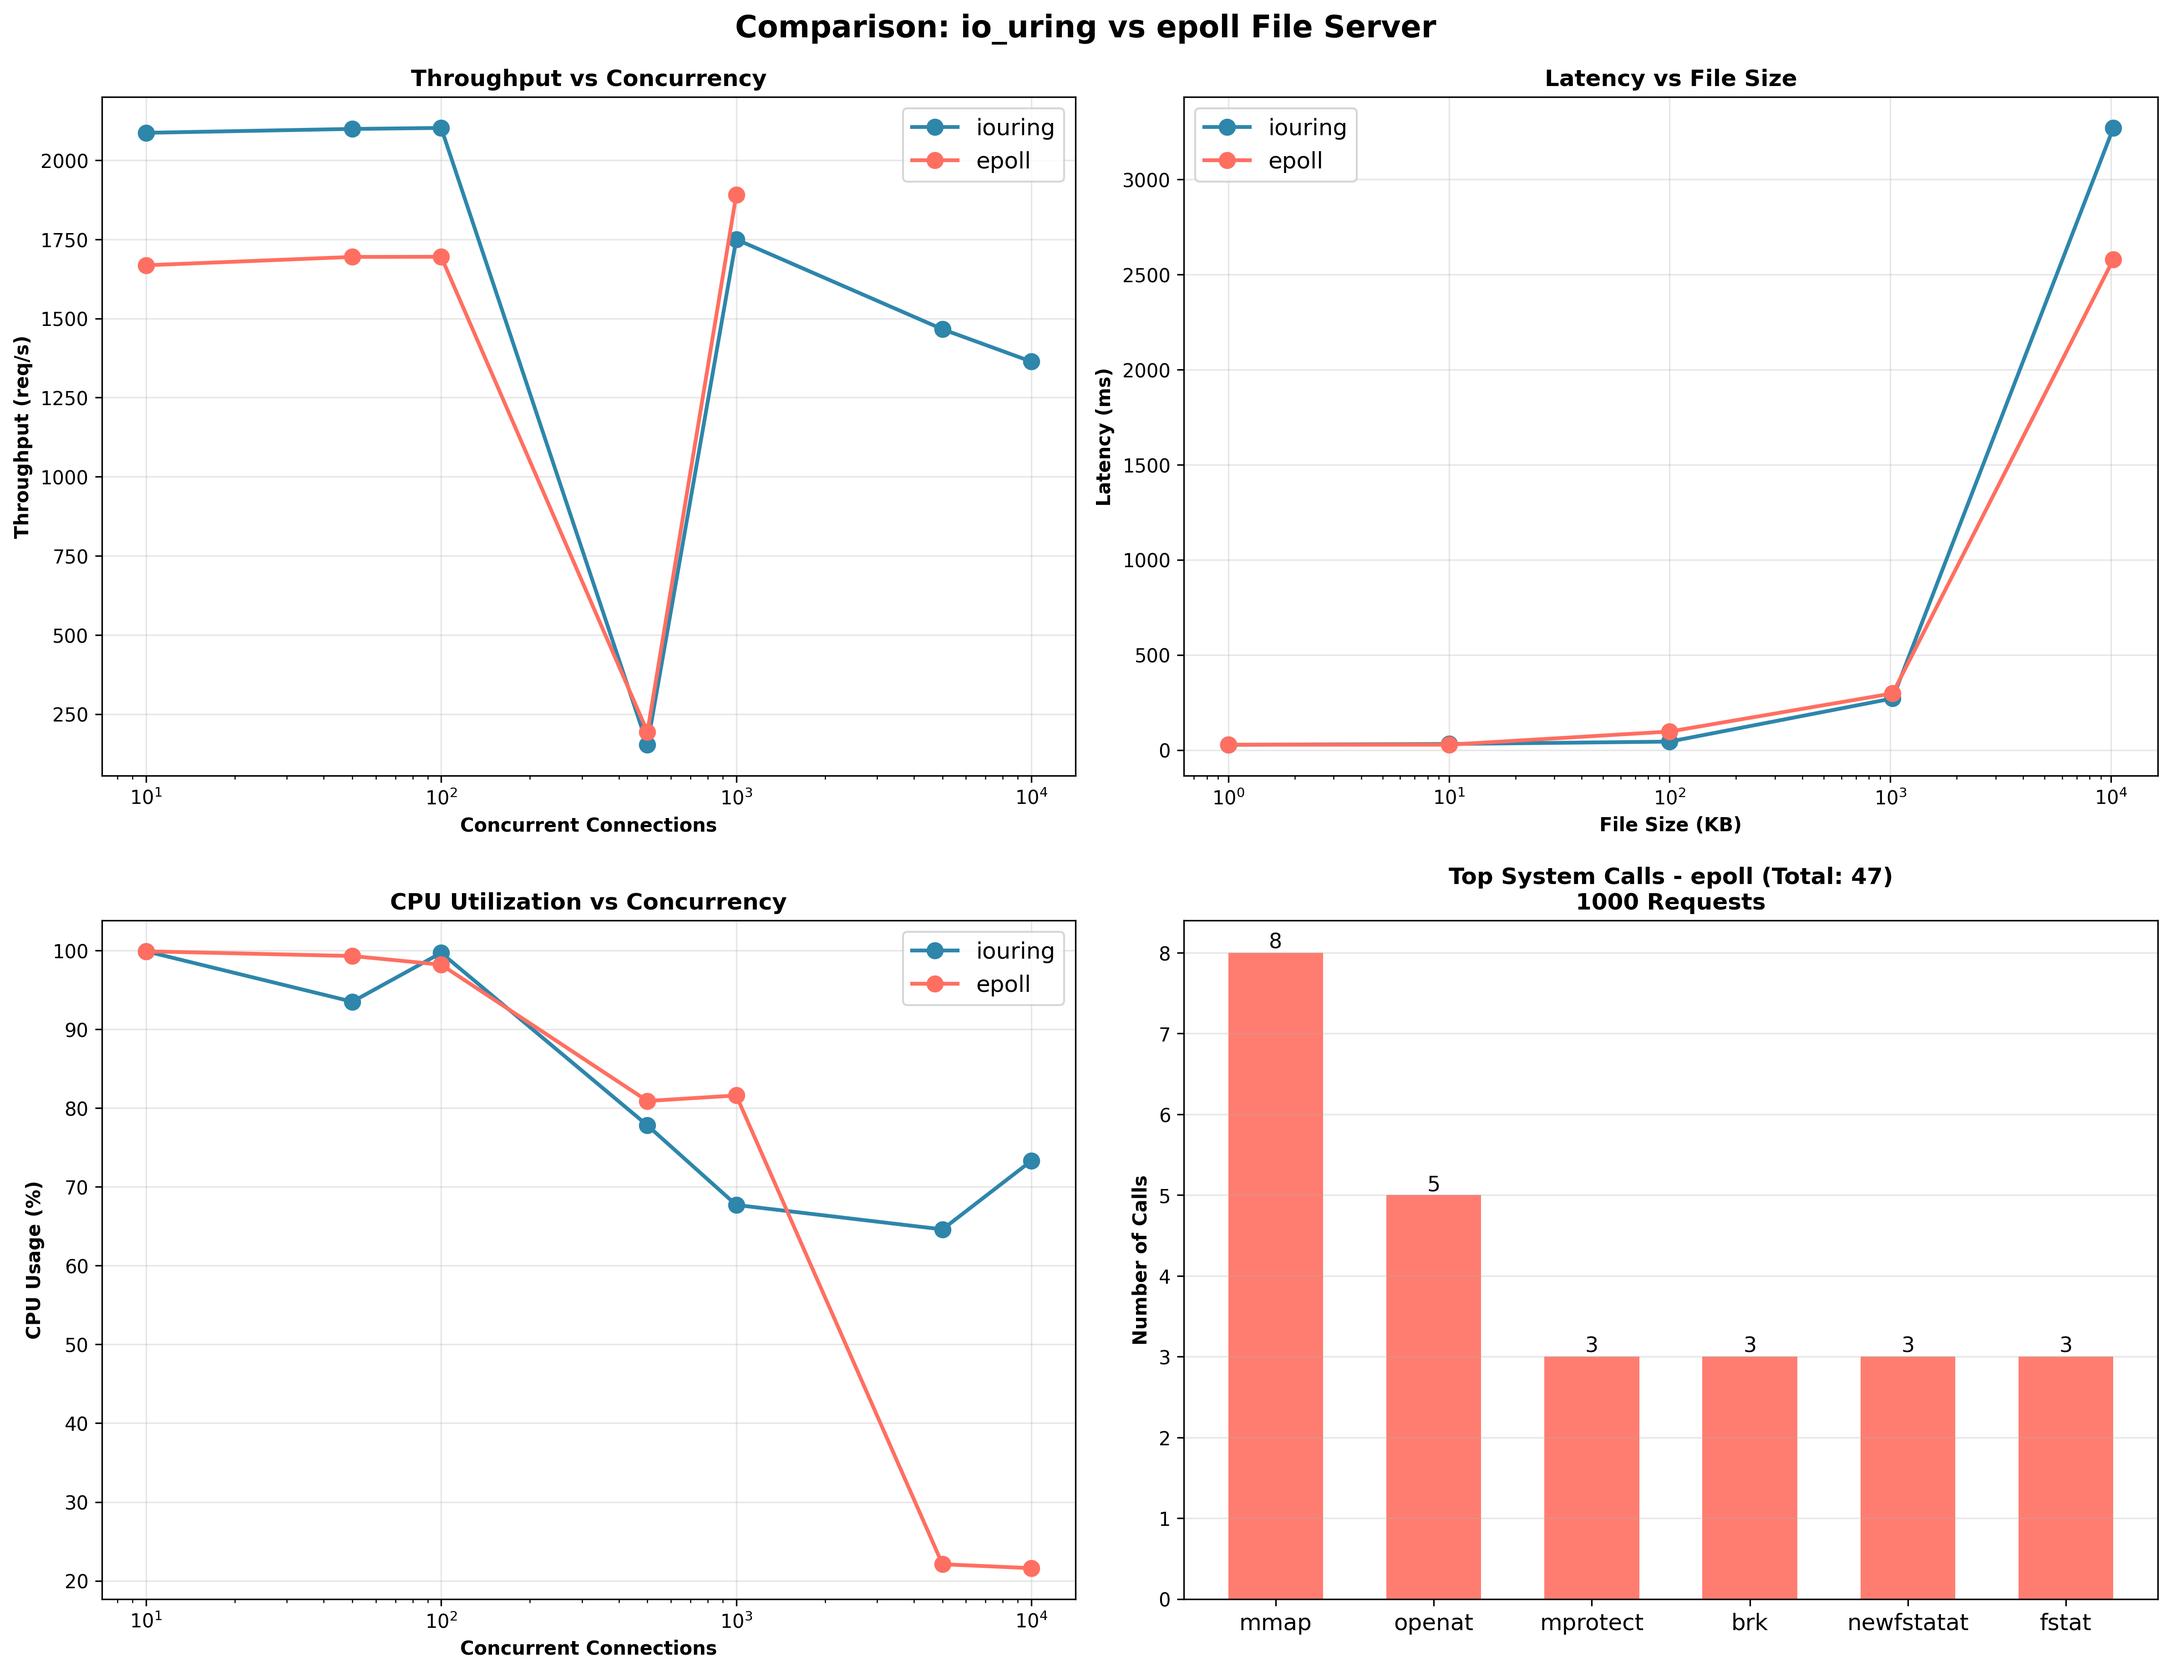
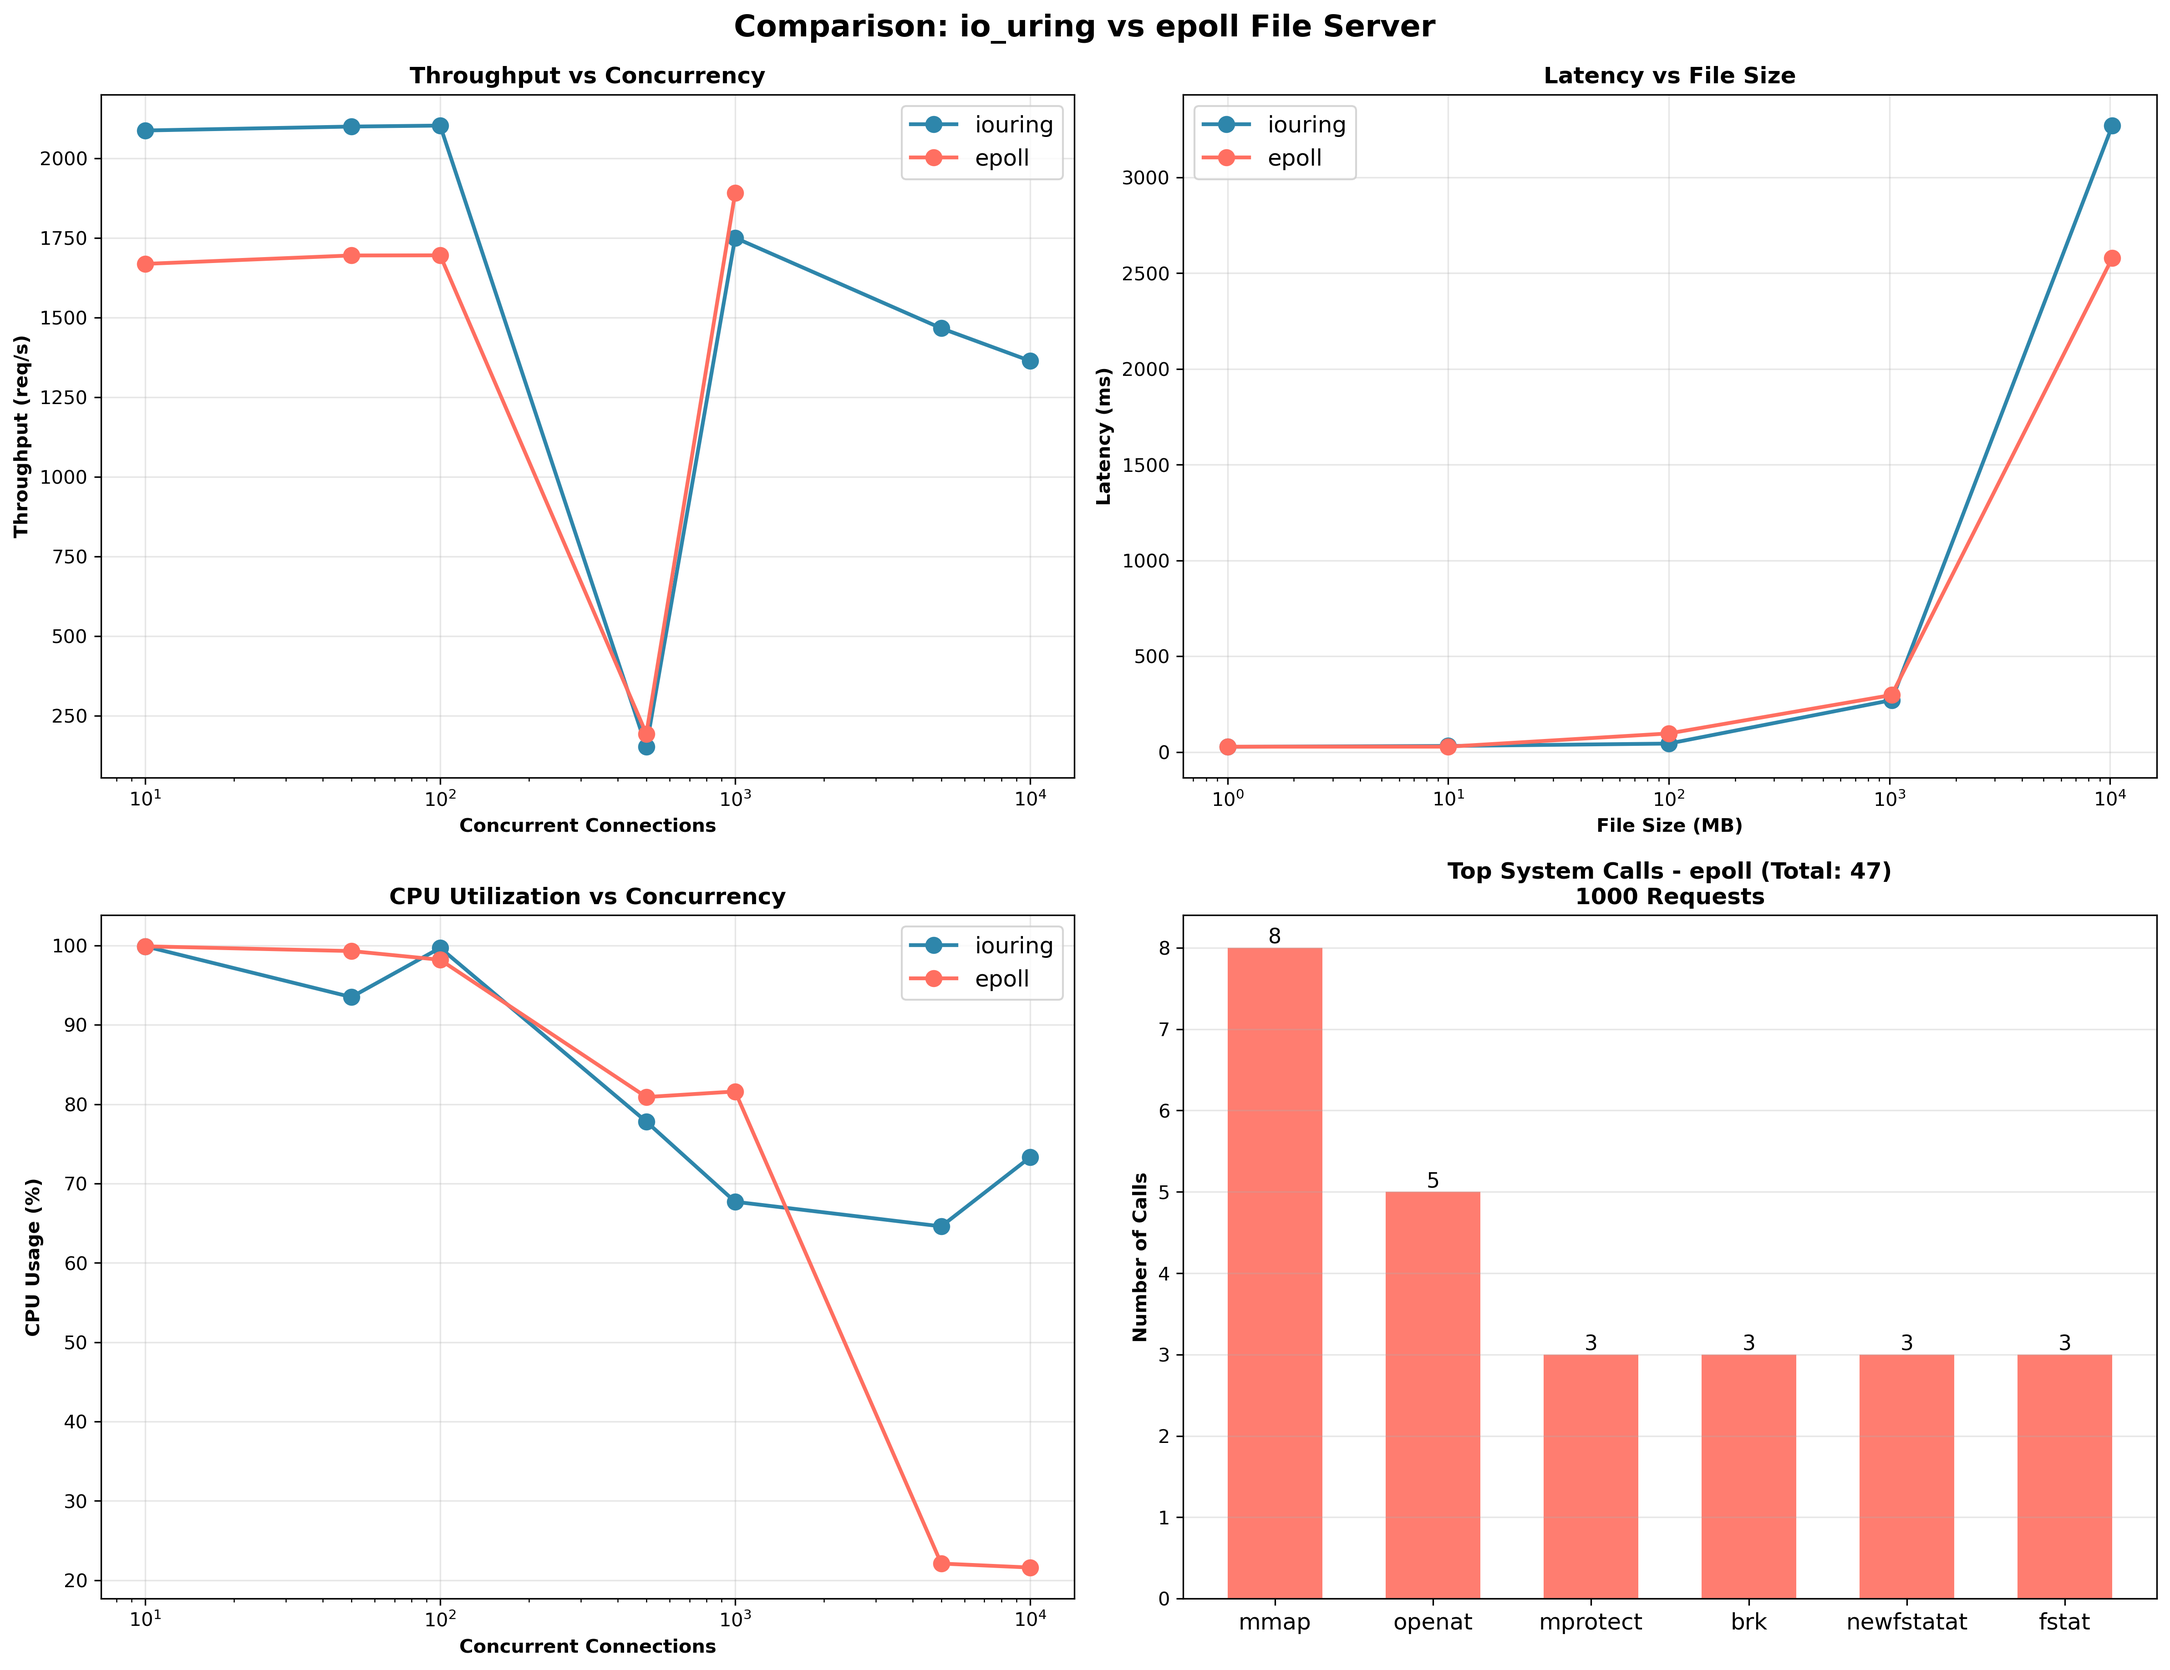
Update files

diff --git a/visualizations/visualize_results_epoll_10MB.py b/visualizations/visualize_results_epoll_10MB.py
@@ -168,7 +168,7 @@ class ComprehensiveVisualizer:
         for x, y in zip(sizes, lats):
             ax.text(x, y * 1.05, f'{y:.2f}', ha='center', fontsize=9)
         
-        ax.set_xlabel('File Size (KB)', fontsize=13, fontweight='bold')
+        ax.set_xlabel('File Size (MB)', fontsize=13, fontweight='bold')
         ax.set_ylabel('Average Latency (ms)', fontsize=13, fontweight='bold')
         ax.set_title('Latency vs File Size (1KB to 10MB)\n100 Concurrent Connections - epoll',
                     fontsize=15, fontweight='bold', pad=20)
@@ -295,7 +295,7 @@ class ComprehensiveVisualizer:
             sizes = sorted(self.latency_filesize.keys())
             lats = [self.latency_filesize[s] for s in sizes]
             ax2.plot(sizes, lats, 'o-', linewidth=2, markersize=8, color='#FF6F61')
-            ax2.set_xlabel('File Size (KB)', fontweight='bold')
+            ax2.set_xlabel('File Size (MB)', fontweight='bold')
             ax2.set_ylabel('Latency (ms)', fontweight='bold')
             ax2.set_title('Latency vs File Size', fontweight='bold')
             ax2.set_xscale('log')

diff --git a/visualizations/visualize_results_epoll_1MB.py b/visualizations/visualize_results_epoll_1MB.py
@@ -168,7 +168,7 @@ class ComprehensiveVisualizer:
         for x, y in zip(sizes, lats):
             ax.text(x, y * 1.05, f'{y:.2f}', ha='center', fontsize=9)
         
-        ax.set_xlabel('File Size (KB)', fontsize=13, fontweight='bold')
+        ax.set_xlabel('File Size (MB)', fontsize=13, fontweight='bold')
         ax.set_ylabel('Average Latency (ms)', fontsize=13, fontweight='bold')
         ax.set_title('Latency vs File Size (1MB)\n100 Concurrent Connections - epoll',
                     fontsize=15, fontweight='bold', pad=20)
@@ -295,7 +295,7 @@ class ComprehensiveVisualizer:
             sizes = sorted(self.latency_filesize.keys())
             lats = [self.latency_filesize[s] for s in sizes]
             ax2.plot(sizes, lats, 'o-', linewidth=2, markersize=8, color='#FF6F61')
-            ax2.set_xlabel('File Size (KB)', fontweight='bold')
+            ax2.set_xlabel('File Size (MB)', fontweight='bold')
             ax2.set_ylabel('Latency (ms)', fontweight='bold')
             ax2.set_title('Latency vs File Size', fontweight='bold')
             ax2.set_xscale('log')

diff --git a/visualizations/visualize_results_iouring_10MB.py b/visualizations/visualize_results_iouring_10MB.py
@@ -168,7 +168,7 @@ class ComprehensiveVisualizer:
         for x, y in zip(sizes, lats):
             ax.text(x, y * 1.05, f'{y:.2f}', ha='center', fontsize=9)
         
-        ax.set_xlabel('File Size (KB)', fontsize=13, fontweight='bold')
+        ax.set_xlabel('File Size (MB)', fontsize=13, fontweight='bold')
         ax.set_ylabel('Average Latency (ms)', fontsize=13, fontweight='bold')
         ax.set_title('Latency vs File Size (10MB)\n100 Concurrent Connections',
                     fontsize=15, fontweight='bold', pad=20)
@@ -263,7 +263,7 @@ class ComprehensiveVisualizer:
             sizes = sorted(self.latency_filesize.keys())
             lats = [self.latency_filesize[s] for s in sizes]
             ax2.plot(sizes, lats, 'o-', linewidth=2, markersize=8, color='#A23B72')
-            ax2.set_xlabel('File Size (KB)', fontweight='bold')
+            ax2.set_xlabel('File Size (MB)', fontweight='bold')
             ax2.set_ylabel('Latency (ms)', fontweight='bold')
             ax2.set_title('Latency vs File Size', fontweight='bold')
             ax2.set_xscale('log')

diff --git a/visualizations/visualize_results_iouring_1MB.py b/visualizations/visualize_results_iouring_1MB.py
@@ -168,7 +168,7 @@ class ComprehensiveVisualizer:
         for x, y in zip(sizes, lats):
             ax.text(x, y * 1.05, f'{y:.2f}', ha='center', fontsize=9)
         
-        ax.set_xlabel('File Size (KB)', fontsize=13, fontweight='bold')
+        ax.set_xlabel('File Size (MB)', fontsize=13, fontweight='bold')
         ax.set_ylabel('Average Latency (ms)', fontsize=13, fontweight='bold')
         ax.set_title('Latency vs File Size (1MB)\n100 Concurrent Connections',
                     fontsize=15, fontweight='bold', pad=20)
@@ -263,7 +263,7 @@ class ComprehensiveVisualizer:
             sizes = sorted(self.latency_filesize.keys())
             lats = [self.latency_filesize[s] for s in sizes]
             ax2.plot(sizes, lats, 'o-', linewidth=2, markersize=8, color='#A23B72')
-            ax2.set_xlabel('File Size (KB)', fontweight='bold')
+            ax2.set_xlabel('File Size (MB)', fontweight='bold')
             ax2.set_ylabel('Latency (ms)', fontweight='bold')
             ax2.set_title('Latency vs File Size', fontweight='bold')
             ax2.set_xscale('log')

diff --git a/visualizations/combined_epoll_iouring_visualization_10MB.py b/visualizations/combined_epoll_iouring_visualization_10MB.py
@@ -106,7 +106,7 @@ class CompareVisuals:
             lats = [self.data[label]['latency'][s] for s in sizes]
             ax.plot(sizes, lats, 'o-', linewidth=2, markersize=8, color=color, label=label)
         ax.set_xscale('log')
-        ax.set_xlabel('File Size (KB)', fontweight='bold')
+        ax.set_xlabel('File Size (MB)', fontweight='bold')
         ax.set_ylabel('Latency (ms)', fontweight='bold')
         ax.set_title('Latency vs File Size', fontweight='bold')
         ax.grid(True, alpha=0.3)

diff --git a/visualizations/combined_epoll_iouring_visualization_1MB.py b/visualizations/combined_epoll_iouring_visualization_1MB.py
@@ -106,7 +106,7 @@ class CompareVisuals:
             lats = [self.data[label]['latency'][s] for s in sizes]
             ax.plot(sizes, lats, 'o-', linewidth=2, markersize=8, color=color, label=label)
         ax.set_xscale('log')
-        ax.set_xlabel('File Size (KB)', fontweight='bold')
+        ax.set_xlabel('File Size (MB)', fontweight='bold')
         ax.set_ylabel('Latency (ms)', fontweight='bold')
         ax.set_title('Latency vs File Size', fontweight='bold')
         ax.grid(True, alpha=0.3)
